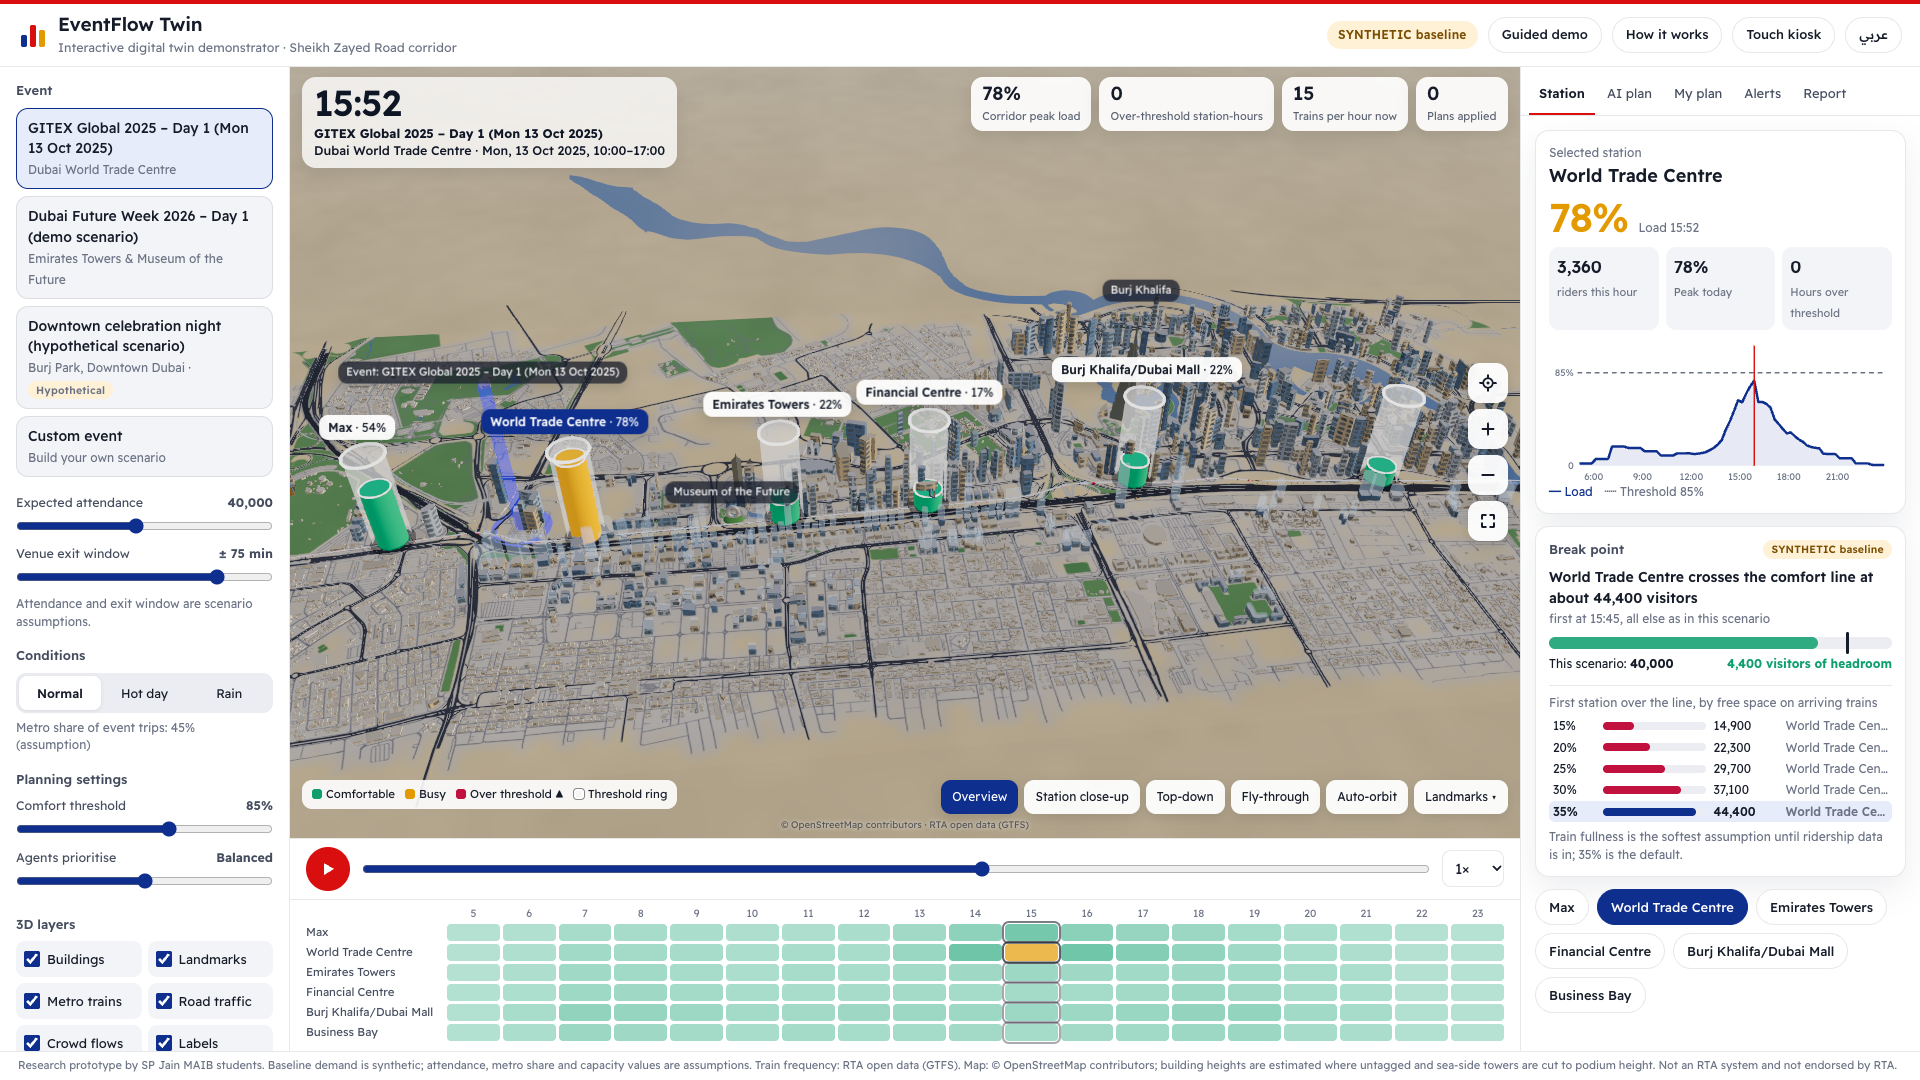
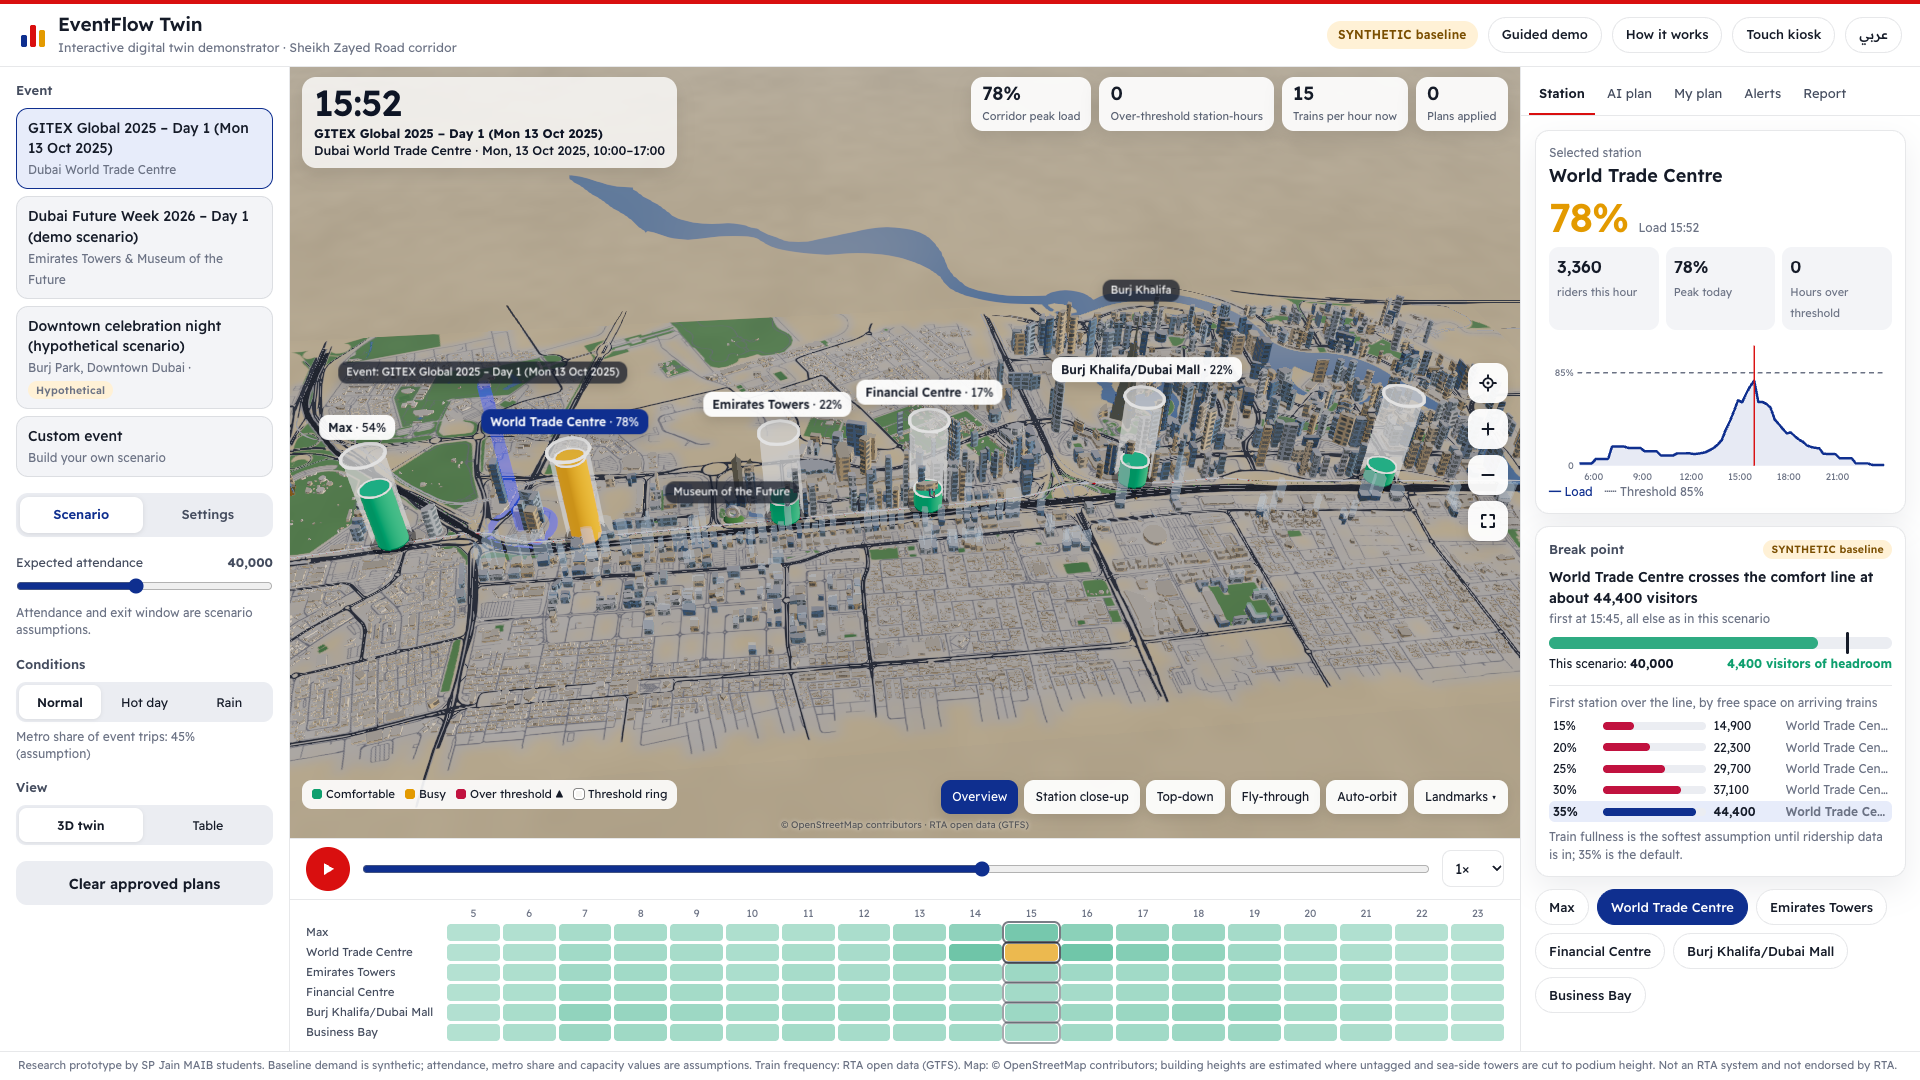
workspace: Scenario and Settings tabs in the left column (decision #107); test for the tabs; workspace screenshots retaken

diff --git a/apps/web/src/components/Rail.tsx b/apps/web/src/components/Rail.tsx
@@ -1,4 +1,5 @@
 "use client";
+import { useState } from "react";
 import { useTranslations } from "next-intl";
 import { useShallow } from "zustand/react/shallow";
 import { N, useFmt } from "@/lib/i18n";
@@ -10,6 +11,7 @@ const PRIOS: Priority[] = ["cost", "balanced", "impact"];
 const LAYERS: LayerKey[] = ["buildings", "landmarks", "trains", "traffic", "flows", "labels"];
 
 export function Rail() {
+  const [rtab, setRtab] = useState<"scen" | "set">("scen");
   const t = useTranslations();
   const f = useFmt();
   // only the fields the rail shows: the playback clock must not re-render it 60 times a second
@@ -23,7 +25,7 @@ export function Rail() {
   const exitSigma = sc.exitSigma ?? s.forecast?.exit_sigma_used ?? 30;
   const share = s.forecast?.metro_share_used;
   return (
-    <aside className="rail">
+    <aside className="rail" data-rtab={rtab}>
       <section>
         <h2>{t("event")}</h2>
         <div className="scen">
@@ -64,14 +66,23 @@ export function Rail() {
           </div>
         )}
       </section>
-      <section className="field">
+      {/* Two tabs keep the column short: the everyday scenario controls, and the settings a planner changes rarely.
+          On a phone both show (globals.css). */}
+      <div className="railtabs" role="tablist" aria-label={t("railTabs")}>
+        <button type="button" role="tab" aria-selected={rtab === "scen"} onClick={() => setRtab("scen")}>{t("railScenario")}</button>
+        <button type="button" role="tab" aria-selected={rtab === "set"} onClick={() => setRtab("set")} data-testid="rail-settings">{t("railSettings")}</button>
+      </div>
+      <section className="field tab-scen">
         <label htmlFor="att"><span>{t("attendance")}</span><b><N>{f.int(attendance)}</N></b></label>
         <input id="att" type="range" min={5000} max={80000} step={1000} value={attendance} onChange={(e) => s.patchScenario({ attendance: +e.target.value })} />
+        <div className="note">{t("assumptionNote")}</div>
+      </section>
+      <section className="field tab-set">
         <label htmlFor="exitSig"><span>{t("exitWin")}</span><b><N>{t("exitVal", { n: f.int(exitSigma) })}</N></b></label>
         <input id="exitSig" type="range" min={15} max={90} step={5} value={exitSigma} onChange={(e) => s.patchScenario({ exitSigma: +e.target.value })} />
         <div className="note">{t("assumptionNote")}</div>
       </section>
-      <section>
+      <section className="tab-scen">
         <h2>{t("weather")}</h2>
         <div className="seg">
           {(["normal", "hot", "rain"] as Weather[]).map((w) => (
@@ -80,14 +91,14 @@ export function Rail() {
         </div>
         {share != null && <div className="note" style={{ marginTop: 6 }}>{t(`weatherNote.${s.forecast?.weather ?? "normal"}`, { pct: f.pct(share) })}</div>}
       </section>
-      <section className="field adv">
+      <section className="field adv tab-set">
         <h2>{t("planning")}</h2>
         <label htmlFor="thr"><span>{t("thr")}</span><b><N>{f.pct(s.threshold)}</N></b></label>
         <input id="thr" type="range" min={70} max={95} step={5} value={Math.round(s.threshold * 100)} onChange={(e) => s.setThreshold(+e.target.value / 100)} />
         <label htmlFor="prio"><span>{t("prio")}</span><b>{t(`prioL.${s.priority}`)}</b></label>
         <input id="prio" type="range" min={0} max={2} step={1} value={PRIOS.indexOf(s.priority)} onChange={(e) => s.setPriority(PRIOS[+e.target.value])} aria-valuetext={t(`prioL.${s.priority}`)} />
       </section>
-      <section className="adv">
+      <section className="adv tab-set">
         <h2>{t("layers")}</h2>
         <div className="checks">
           {LAYERS.map((k) => (

diff --git a/apps/web/tests/ui.spec.ts b/apps/web/tests/ui.spec.ts
@@ -292,6 +292,27 @@ test("offline: no request leaves localhost", async ({ page }) => {
   expect(external).toEqual([]);
 });
 
+test("workspace: the left column opens on the scenario; Settings holds the rarely used controls; a phone shows both", async ({ page }) => {
+  await open(page);
+  await expect(page.locator("#att")).toBeVisible();
+  await expect(page.getByRole("button", { name: "Hot day" })).toBeVisible();
+  await expect(page.locator("#thr")).toBeHidden();                              // planning settings and 3D layers are one tap away
+  await expect(page.locator(".rail .checks")).toBeHidden();
+  const rail = page.locator(".rail");
+  expect(await rail.evaluate((el) => el.scrollHeight <= el.clientHeight + 1)).toBe(true);    // the column no longer scrolls at 1080p
+  await page.getByTestId("rail-settings").click();
+  await expect(page.locator("#thr")).toBeVisible();
+  await expect(page.locator("#exitSig")).toBeVisible();
+  await expect(page.locator(".rail .checks")).toBeVisible();
+  await expect(page.locator("#att")).toBeHidden();
+  await settle(page, 800);
+  await page.screenshot({ path: `${OUT}/workspace_settings_tab.png` });
+  await page.setViewportSize({ width: 375, height: 812 });
+  await expect(page.locator("#att")).toBeVisible();
+  await expect(page.locator("#thr")).toBeVisible();
+  await expect(page.locator(".railtabs")).toBeHidden();
+});
+
 test("public link: the welcome sheet offers the visitor story; the Report tab prints a one-page brief", async ({ page }) => {
   await open(page, "/?welcome=1");
   const sheet = page.getByTestId("welcome");

diff --git a/apps/web/src/app/globals.css b/apps/web/src/app/globals.css
@@ -308,3 +308,13 @@ dialog.welcome .note { font-size: 12px; }
   .tabpanel::before { content: "EventFlow Twin: event brief. Research prototype, synthetic demand, simulated results. Not an RTA system and not endorsed by RTA."; display: block; font-size: 12px; margin-bottom: 10px; }
   .card { break-inside: avoid; box-shadow: none !important; border: 1px solid #c8ccd4 !important; }
 }
+
+/* ---- left column: two tabs (Scenario · Settings) so the column fits without scrolling; a phone shows both */
+.railtabs { display: flex; gap: 4px; padding: 4px; border-radius: 12px; background: var(--muted); }
+.railtabs button { flex: 1; min-height: 36px; border: 0; border-radius: 9px; background: transparent; font-size: 13px; font-weight: 550; color: var(--ink-2); }
+.railtabs button[aria-selected="true"] { background: var(--surface); color: var(--navy); font-weight: 600; box-shadow: 0 1px 5px rgba(0, 0, 0, .1); }
+@media (min-width: 641px) {
+  .rail[data-rtab="scen"] .tab-set, .rail[data-rtab="set"] .tab-scen { display: none; }
+}
+@media (max-width: 640px) { .railtabs { display: none; } }
+body.kiosk .railtabs { display: none; }

diff --git a/docs/09_DECISIONS.md b/docs/09_DECISIONS.md
@@ -108,3 +108,4 @@
 | 104 | 2026-11-13 | **Kiosk plus: two ways in, and the visitor commits before the AI answers** (Krishna's plan, built overnight; numbered 104 because the R7 performance branch holds 103). After the attract screen the visitor picks "I'm planning the event" (the existing story), "I'm travelling to the event" (new rider tip) or "Show me in 60 seconds" (the planner story plays by itself with captions; any touch takes over). New in the planner story: a **stress test** after the reveal (crowd-size slider with the break point, share of visitors by metro, a closed station), **"your idea first"** (one lever, simulated with the same strengths the workspace's "My plan" offers) before the agents run, then **you vs the AI** in words on the result screen, **"How the AI decided"** (the agent's eight steps, target station and the number check, all read from the `/agent/plan` answer), **undo** of an approval, and the longest wait and rider-hours of waiting next to peak load and riders over the line (shown only when the scenario has queues). Also: "your own event" (the API's custom event), a high-contrast mode, anonymous booth counters in the browser's local storage (hold the footer 3 s), and an automatic reload on the corridor scene if the realism scene stays under 24 fps at the lowest quality tier for 20 s. Everything on screen is still an API figure; the only constants are request values (idea strengths, metro shares 35–65 %) and the definition "quieter = trains under 60 % full", which is printed on screen. Tests: `apps/web/tests/kiosk.spec.ts` (10 tests) | Research for the plan: visitors give an exhibit about a minute, so the kiosk must serve a rider as well as a planner and let a judge see the whole loop without touching; committing to a guess before the answer is what makes the comparison stick; agentic-AI guidance asks for visible steps, an approval gate, a log and undo | A leaderboard (thin evidence, and it needs names); a chat box (free text at a booth, and numbers would no longer be traceable); separate apps for riders and planners |
 | 105 | 2026-11-13 | **`ForecastRequest.metro_share` (contract 1.9.0)**: a what-if share of event trips made by metro, 0.2–0.8, that wins over the weather what-if's share; it enters the run id only when used, so cached answers, fixtures and the offline snapshot keep their keys (`tests/test_forecast_metro_share.py`). The kiosk's stress test offers 35, 45, 55 and 65 % and says on screen that RTA uses event parking tariffs and variable tolls around the World Trade Centre to encourage public transport (as reported), and that the shift shown is a what-if, not a measured effect | The pricing levers RTA already uses push event visitors onto the metro; the twin's useful answer is whether the metro can absorb them. We have no elasticity, so we do not claim one | Model the parking tariff itself (no data to calibrate it) |
 | 106 | 2026-11-13 | **RTA's reported New Year's Eve 2026 measures as a comparison, on the hypothetical downtown night only.** `kiosk/logic.ts` expresses three publicly reported measures in the simulator's own interventions: Burj Khalifa/Dubai Mall station closed to entry from 17:00 (riders guided to the quieter neighbouring station), more trains on the Red Line (2.5-minute headway, 17:00–23:00) and metro service after midnight. The result screen shows them in a table next to "no plan" and the AI's best plan, with the line "Source: RTA announcements as reported by Gulf News and WAM, Dec 2025 – Jan 2026. Figures are simulated on synthetic demand. A research prototype, not an RTA system." The scenario keeps its name and its "Hypothetical" tag; we do not claim to reproduce the real night (2.8 million riders network-wide) or RTA's actual settings. The closed-station drill uses neutral wording on screen; its real-world context (the April 2024 storm closures) is in `exhibit/JURY_QA.md` only | Shows RTA visitors their own playbook inside the twin, which is the most direct proof of applicability, without implying endorsement or exact replication | A new "New Year's Eve 2026" event with invented attendance; naming the 2024 storm on screen |
+| 107 | 2026-11-13 | **Workspace declutter: the left column has two tabs, Scenario and Settings.** Scenario (the default) keeps the event list, expected attendance, weather, the 3D/table switch and "Clear approved plans"; Settings holds the venue exit window, the comfort threshold, what the agents prioritise and the 3D layer switches. At 1920×1080 the column no longer scrolls. A phone still shows everything in one flow (the tabs are hidden under 641 px), the classic kiosk hides the tabs, and nothing was removed. Also new on the public link: a first-visit welcome sheet that offers the visitor story, and "Print / save as PDF" on the Report tab (a print stylesheet with the scoreboard, decisions and evidence on one page) | Krishna found the workspace crowded; the column stacked nine groups and overflowed. Progressive disclosure: the controls used in every demo stay visible, the rest is one tap away | Collapsible sections (every open section pushes the others off screen again); moving settings into a dialog (hides them from the jury) |

diff --git a/exhibit/JURY_QA.md b/exhibit/JURY_QA.md
@@ -117,7 +117,7 @@ Nothing personal. The decision log stores the plan, the time and the word "visit
 in the kiosk browser's local storage (how many touched, which path, quiz right or wrong) and never leave the laptop.
 
 **"Does the realistic city slow the kiosk down?"**
-The kiosk runs it at a lighter quality level (tier 1) that averaged 58 to 60 frames a second in our runs on the two laptops we measured (`fps_kiosk_v2_tier1.json`, decision #100). If a laptop
+The kiosk runs it at a lighter quality level (tier 1) that averaged 58 to 60 frames a second in our runs on the two laptops we measured (decisions #100 and #102, `eval/results/ui/fps_kiosk_v2_tier1.json`). If a laptop
 cannot hold a usable frame rate, the kiosk reloads on the older city by itself. Frame-rate work (decision #103) cut the
 triangles per frame from 3.9 to 1.2 million; full quality in the kiosk waits for a measurement on the booth laptop.
 

diff --git a/docs/metrics.md b/docs/metrics.md
@@ -205,6 +205,6 @@ UI test "realism ring…" on the production build, lowest 1-second sample per ca
 `?scene=v2` with every layer on and the clock playing (`fps_v2.json`, 2026-11-12T21:41:21.756Z, test "realism ring…"): average **60** fps, minimum 1-second sample 59.9.
 
 ## UI tests
-`apps/web/tests/ui.spec.ts` — 23 Playwright tests (EN/AR, day/night, kiosk hit targets, demo flow, guided demo,
+`apps/web/tests/ui.spec.ts` — 24 Playwright tests (EN/AR, day/night, kiosk hit targets, demo flow, guided demo,
 My plan, recentre, landmarks, overlay overlap, quality tier, crash recovery, table + WebGL fallback, offline, API down,
 fps). Screenshots: `eval/results/ui/*.png`.
